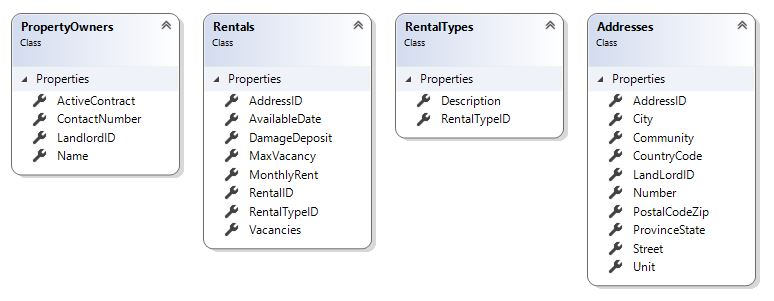
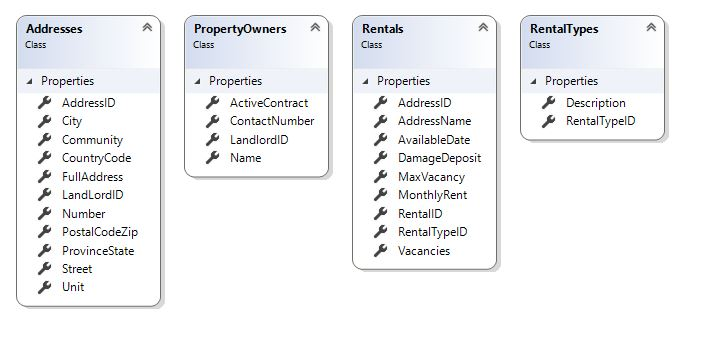
Deliverable 4 final

diff --git a/StarTEDSolution/StarTEDWebApp/Forms/CRUD.aspx.cs b/StarTEDSolution/StarTEDWebApp/Forms/CRUD.aspx.cs
@@ -20,6 +20,7 @@ namespace StarTEDWebApp.Forms
         {
             Message.DataSource = null;
             Message.DataBind();
+
             if (!Page.IsPostBack)
             {
 
@@ -33,13 +34,26 @@ namespace StarTEDWebApp.Forms
             {
                 RentalsController sysmgr = new RentalsController();
                 List<Rentals> info = null;
-                info = sysmgr.Rentals_FindByLandlord(int.Parse(LandlordList.SelectedValue));
-                info.Sort((x, y) => x.AddressID.CompareTo(y.AddressID));
-                AddressSearchList.DataSource = info;
-                AddressSearchList.DataTextField = nameof(Rentals.AddressID);
-                AddressSearchList.DataValueField = nameof(Rentals.RentalID);
-                AddressSearchList.DataBind();
-                AddressSearchList.Items.Insert(0, "Select an Address...");
+
+                AddressesController addControl = new AddressesController();
+                
+                if (!string.IsNullOrEmpty(LandlordList.SelectedValue))
+                {
+                    info = sysmgr.Rentals_FindByLandlord(int.Parse(LandlordList.SelectedValue));
+
+                    foreach (Rentals item in info) // Loop through List with foreach
+                    {
+                        item.AddressName = (addControl.Addresses_FindByID(item.AddressID)).FullAddress;
+                    }
+
+                    info.Sort((x, y) => x.AddressName.CompareTo(y.AddressName));
+                    AddressSearchList.DataSource = info;
+                    AddressSearchList.DataTextField = nameof(Rentals.AddressName);
+                    AddressSearchList.DataValueField = nameof(Rentals.RentalID);
+                    AddressSearchList.DataBind();
+                    AddressSearchList.Items.Insert(0, "Select an Address...");
+                }
+                
 
             }
             catch (Exception ex)
@@ -72,7 +86,7 @@ namespace StarTEDWebApp.Forms
             if (LandlordList.SelectedIndex == 0)
             {
                 errormsgs.Add("Select a landlord to obtain rental address/es.");
-                LoadMessageDisplay(errormsgs, "alert alert-info");
+                LoadMessageDisplay(errormsgs, "alert alert-danger");
                 AddressSearchList.DataSource = null;
                 AddressSearchList.DataBind();
             }
@@ -94,13 +108,13 @@ namespace StarTEDWebApp.Forms
                     if (info.Count == 0)
                     {
                         errormsgs.Add("No data found for the landlord");
-                        LoadMessageDisplay(errormsgs, "alert alert-info");
+                        LoadMessageDisplay(errormsgs, "alert alert-danger");
                         AddressSearchList.DataSource = null;
                         AddressSearchList.DataBind();
                     }
                     else
                     {
-                        info.Sort((x, y) => x.AddressID.CompareTo(y.AddressID));
+                        info.Sort((x, y) => x.AddressName.CompareTo(y.AddressName));
                         AddressSearchList.DataSource = info;
                         AddressSearchList.DataTextField = nameof(Rentals.AddressName);
                         AddressSearchList.DataValueField = nameof(Rentals.RentalID);
@@ -120,10 +134,10 @@ namespace StarTEDWebApp.Forms
 
         protected void FindRental_Click(object sender, EventArgs e)
         {
-            if (AddressSearchList.SelectedIndex == 0)
+            if (AddressSearchList.SelectedIndex == 0 || AddressSearchList.Items.Count < 1)
             {
-                errormsgs.Add("Select a rental to maintain");
-                LoadMessageDisplay(errormsgs, "alert alert-info");
+                errormsgs.Add("Select a rental address to maintain.");
+                LoadMessageDisplay(errormsgs, "alert alert-danger");
             }
             else
             {
@@ -142,7 +156,7 @@ namespace StarTEDWebApp.Forms
                     if (info == null)
                     {
                         errormsgs.Add("Cannot find Rental in database.");
-                        LoadMessageDisplay(errormsgs, "alert alert-info");
+                        LoadMessageDisplay(errormsgs, "alert alert-danger");
                         Clear_Click(sender, e);
                     }
                     else
@@ -197,7 +211,7 @@ namespace StarTEDWebApp.Forms
             if (string.IsNullOrEmpty(AddressNumber.Text) || string.IsNullOrEmpty(AddressStreet.Text))
             {
                 errormsgs.Add("Please provide Number and Street to search.");
-                LoadMessageDisplay(errormsgs, "alert alert-info");
+                LoadMessageDisplay(errormsgs, "alert alert-danger");
 
             }
             else
@@ -211,7 +225,7 @@ namespace StarTEDWebApp.Forms
                     if (info.Count == 0)
                     {
                         errormsgs.Add("No data found for the supplied number and street.");
-                        LoadMessageDisplay(errormsgs, "alert alert-info");
+                        LoadMessageDisplay(errormsgs, "alert alert-danger");
                         AddressDetailList.DataSource = null;
                         AddressDetailList.DataBind();
                     }
@@ -260,7 +274,7 @@ namespace StarTEDWebApp.Forms
             if (AddressDetailList.SelectedIndex <= 0)
             {
                 errormsgs.Add("No address is selected.");
-                LoadMessageDisplay(errormsgs, "alert alert-info");
+                LoadMessageDisplay(errormsgs, "alert alert-danger");
                 AddressID.Text = "";
                 SelectedAddress.Text = "";
 
@@ -274,16 +288,17 @@ namespace StarTEDWebApp.Forms
 
         protected void AddRental_Click(object sender, EventArgs e)
         {
+
             if (Page.IsValid)
             {
-                if (string.IsNullOrEmpty(AddressID.Text))
+                if (int.Parse(Vacancies.Text) > int.Parse(MaxVacancy.Text))
                 {
-                    errormsgs.Add("Address is required.");
+                    errormsgs.Add("Vacancies should be less than or equal to the maximum vacancy.");
                 }
 
                 if (errormsgs.Count > 0)
                 {
-                    LoadMessageDisplay(errormsgs, "alert alert-info");
+                    LoadMessageDisplay(errormsgs, "alert alert-danger");
                 }
                 else
                 {
@@ -366,12 +381,13 @@ namespace StarTEDWebApp.Forms
 
         protected void UpdateRental_Click(object sender, EventArgs e)
         {
+
             if (Page.IsValid)
             {
 
-                if (string.IsNullOrEmpty(AddressID.Text))
+                if (int.Parse(Vacancies.Text) > int.Parse(MaxVacancy.Text))
                 {
-                    errormsgs.Add("Address is required.");
+                    errormsgs.Add("Vacancies should be less than or equal to the maximum vacancy.");
                 }
 
                 int rentalid = 0;
@@ -390,7 +406,7 @@ namespace StarTEDWebApp.Forms
 
                 if (errormsgs.Count > 0)
                 {
-                    LoadMessageDisplay(errormsgs, "alert alert-info");
+                    LoadMessageDisplay(errormsgs, "alert alert-danger");
                 }
                 else
                 {
@@ -448,7 +464,7 @@ namespace StarTEDWebApp.Forms
                         else
                         {
                             errormsgs.Add("Rental has not been updated. Rental was not found.");
-                            LoadMessageDisplay(errormsgs, "alert alert-info");
+                            LoadMessageDisplay(errormsgs, "alert alert-danger");
                             BindRentalsList(); 
 
                         }
@@ -506,7 +522,7 @@ namespace StarTEDWebApp.Forms
 
               if (errormsgs.Count > 0)
               {
-                  LoadMessageDisplay(errormsgs, "alert alert-info");
+                  LoadMessageDisplay(errormsgs, "alert alert-danger");
               }
               else
               {
@@ -529,7 +545,7 @@ namespace StarTEDWebApp.Forms
                       else
                       {
                           errormsgs.Add("Rental has not been removed. Rental was not found.");
-                          LoadMessageDisplay(errormsgs, "alert alert-warning");
+                          LoadMessageDisplay(errormsgs, "alert alert-danger");
                         BindRentalsList(); 
                         Clear_Click(sender, e);
                     }
@@ -566,6 +582,20 @@ namespace StarTEDWebApp.Forms
                   }
               }
 
+        }
+
+        protected void ClearAddress_Click(object sender, EventArgs e)
+        {
+            if(string.IsNullOrEmpty(SelectedAddress.Text))
+            {
+                errormsgs.Add("No address to be cleared..");
+                LoadMessageDisplay(errormsgs, "alert alert-danger");
+            } else
+            {
+                AddressID.Text = "";
+                SelectedAddress.Text = "";
+            }
+            
         }
     }
 }

diff --git a/StarTEDSolution/StarTEDWebApp/Forms/CRUD.aspx.designer.cs b/StarTEDSolution/StarTEDWebApp/Forms/CRUD.aspx.designer.cs
@@ -15,6 +15,15 @@ namespace StarTEDWebApp.Forms
     {
 
         /// <summary>
+        /// RequiredAddress control.
+        /// </summary>
+        /// <remarks>
+        /// Auto-generated field.
+        /// To modify move field declaration from designer file to code-behind file.
+        /// </remarks>
+        protected global::System.Web.UI.WebControls.RequiredFieldValidator RequiredAddress;
+
+        /// <summary>
         /// RequiredMonthlyRent control.
         /// </summary>
         /// <remarks>
@@ -42,6 +51,42 @@ namespace StarTEDWebApp.Forms
         protected global::System.Web.UI.WebControls.RequiredFieldValidator RequiredMaxVacancy;
 
         /// <summary>
+        /// CompareMonthlyRent control.
+        /// </summary>
+        /// <remarks>
+        /// Auto-generated field.
+        /// To modify move field declaration from designer file to code-behind file.
+        /// </remarks>
+        protected global::System.Web.UI.WebControls.CompareValidator CompareMonthlyRent;
+
+        /// <summary>
+        /// CompareMaxVacancy control.
+        /// </summary>
+        /// <remarks>
+        /// Auto-generated field.
+        /// To modify move field declaration from designer file to code-behind file.
+        /// </remarks>
+        protected global::System.Web.UI.WebControls.CompareValidator CompareMaxVacancy;
+
+        /// <summary>
+        /// CompareDamageDeposit control.
+        /// </summary>
+        /// <remarks>
+        /// Auto-generated field.
+        /// To modify move field declaration from designer file to code-behind file.
+        /// </remarks>
+        protected global::System.Web.UI.WebControls.CompareValidator CompareDamageDeposit;
+
+        /// <summary>
+        /// CompareVacancies control.
+        /// </summary>
+        /// <remarks>
+        /// Auto-generated field.
+        /// To modify move field declaration from designer file to code-behind file.
+        /// </remarks>
+        protected global::System.Web.UI.WebControls.CompareValidator CompareVacancies;
+
+        /// <summary>
         /// ValidationSummary1 control.
         /// </summary>
         /// <remarks>
@@ -49,6 +94,15 @@ namespace StarTEDWebApp.Forms
         /// To modify move field declaration from designer file to code-behind file.
         /// </remarks>
         protected global::System.Web.UI.WebControls.ValidationSummary ValidationSummary1;
+
+        /// <summary>
+        /// Message control.
+        /// </summary>
+        /// <remarks>
+        /// Auto-generated field.
+        /// To modify move field declaration from designer file to code-behind file.
+        /// </remarks>
+        protected global::System.Web.UI.WebControls.DataList Message;
 
         /// <summary>
         /// Label5 control.
@@ -175,15 +229,6 @@ namespace StarTEDWebApp.Forms
         /// To modify move field declaration from designer file to code-behind file.
         /// </remarks>
         protected global::System.Web.UI.WebControls.ObjectDataSource RentalTypeDataSource;
-
-        /// <summary>
-        /// Message control.
-        /// </summary>
-        /// <remarks>
-        /// Auto-generated field.
-        /// To modify move field declaration from designer file to code-behind file.
-        /// </remarks>
-        protected global::System.Web.UI.WebControls.DataList Message;
 
         /// <summary>
         /// Label12 control.
@@ -345,7 +390,7 @@ namespace StarTEDWebApp.Forms
         /// Auto-generated field.
         /// To modify move field declaration from designer file to code-behind file.
         /// </remarks>
-        protected global::System.Web.UI.WebControls.Label SelectedAddress;
+        protected global::System.Web.UI.WebControls.TextBox SelectedAddress;
 
         /// <summary>
         /// AddressID control.
@@ -355,6 +400,15 @@ namespace StarTEDWebApp.Forms
         /// To modify move field declaration from designer file to code-behind file.
         /// </remarks>
         protected global::System.Web.UI.WebControls.Label AddressID;
+
+        /// <summary>
+        /// ClearAddress control.
+        /// </summary>
+        /// <remarks>
+        /// Auto-generated field.
+        /// To modify move field declaration from designer file to code-behind file.
+        /// </remarks>
+        protected global::System.Web.UI.WebControls.Button ClearAddress;
 
         /// <summary>
         /// RentalTypeList control.
